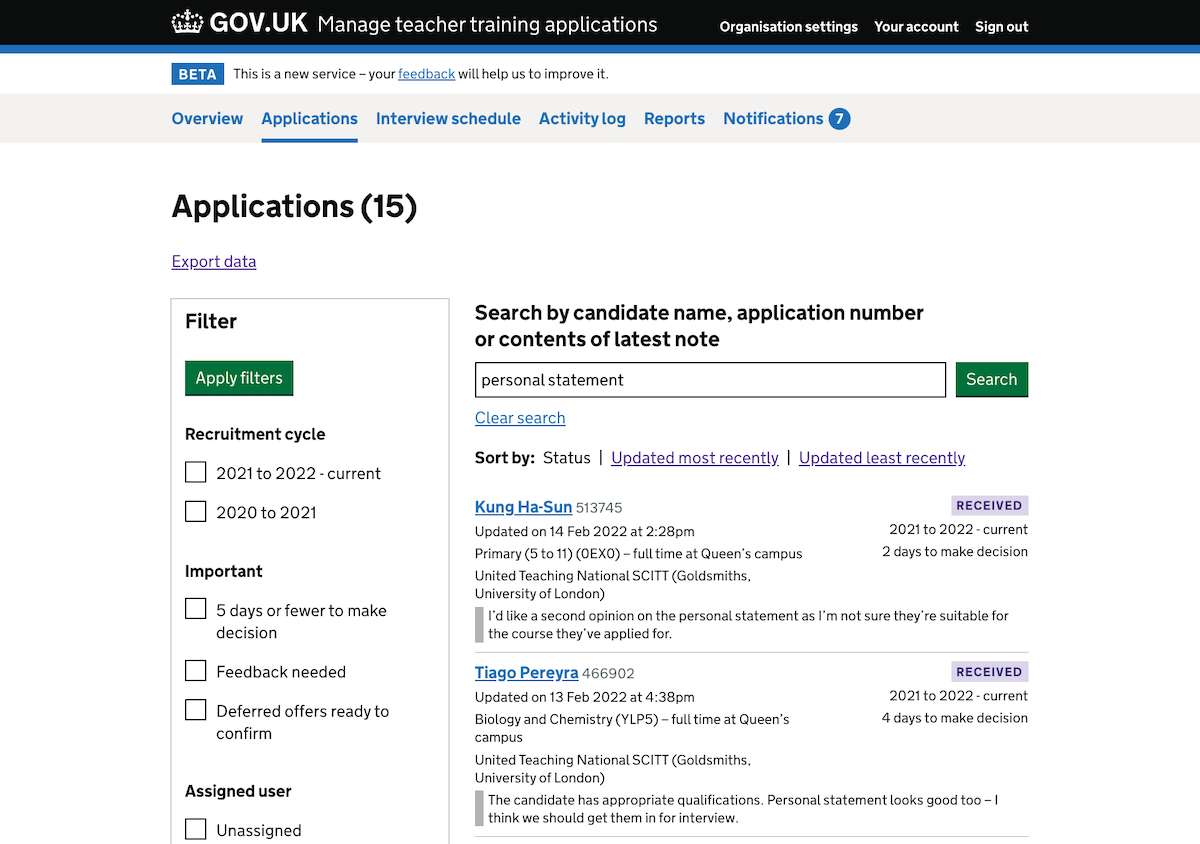
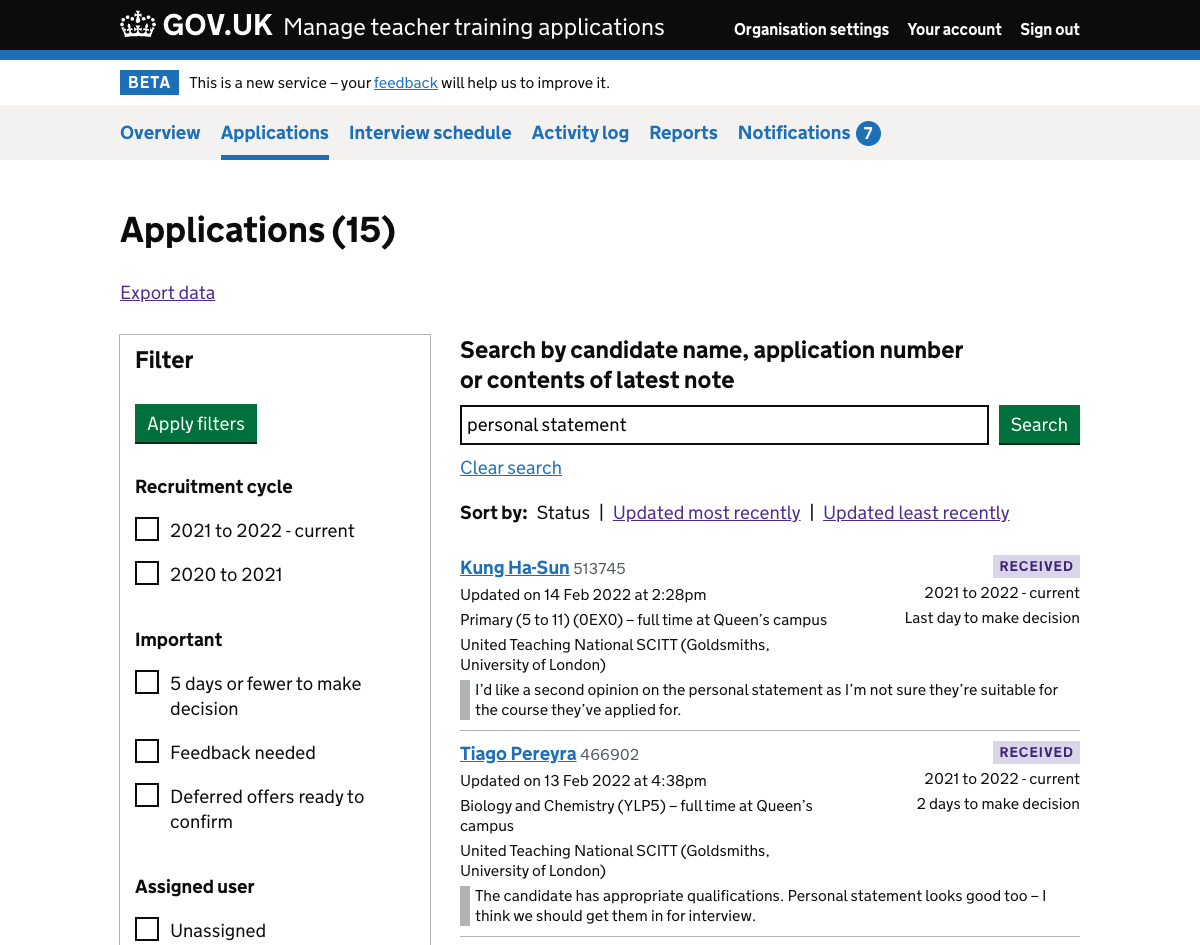
Removed incorrectly added files, fixed screenshots, made minor text changes

diff --git a/app/posts/manage-teacher-training-applications/2022-03-21-showing-notes-in-the-application-list.md b/app/posts/manage-teacher-training-applications/2022-03-21-showing-notes-in-the-application-list.md
@@ -58,4 +58,4 @@ We also want to consider changing the search to:
 
 - default to searching by individual words rather than phrases - at the moment, searching for ‘interview request’ would not return a note which says ‘request for interview’
 - allow the use of speech marks to search for phrases
-- return results which include some or all of the words in a search which does not use speech marks, with most relevant results at the top
+- return results which include some or all of the words in a search which does not use speech marks, possibly with the most relevant results at the top
